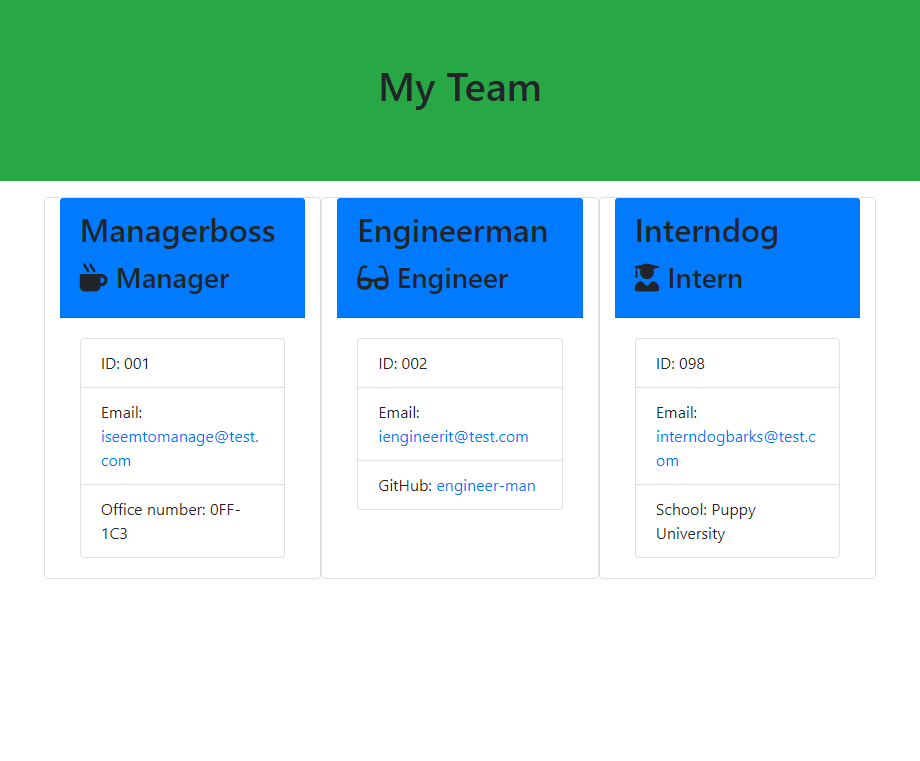
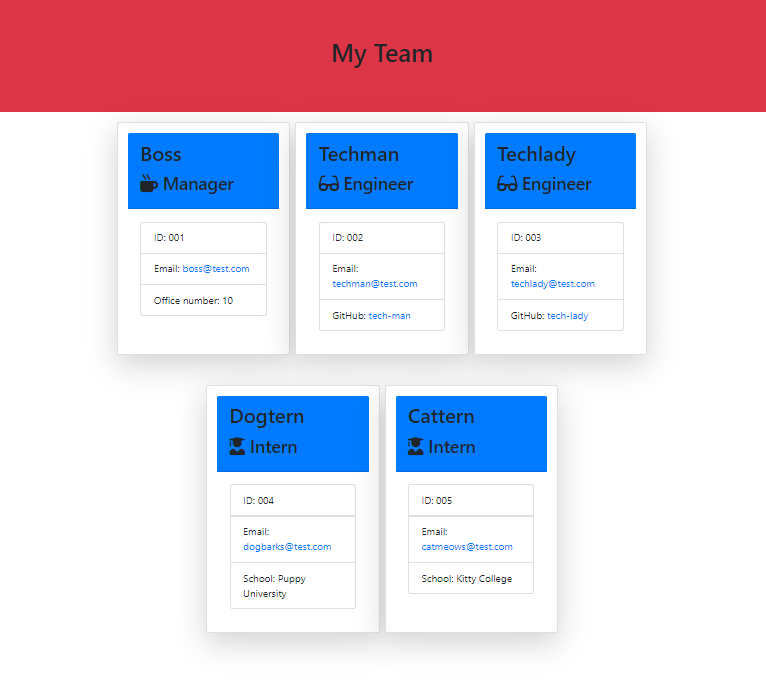
changed README png

diff --git a/output/team.html b/output/team.html
@@ -25,65 +25,65 @@
             <div class="team-area col-12 d-flex justify-content-center flex-wrap">
                 <div class="card employee-card col-xl-3 col-lg-4 col-md-6 mx-1 shadow-lg p-3 mb-5 bg-white rounded"> 
     <div class="card-header bg-primary">
-        <h2 class="card-title">Managerboss</h2>
+        <h2 class="card-title">Boss</h2>
         <h3 class="card-title"><i class="fas fa-mug-hot mr-2"></i>Manager</h3>
     </div>
     <div class="card-body">
         <ul class="list-group">
             <li class="list-group-item">ID: 001</li>
-            <li class="list-group-item">Email: <a href="mailto:iseem2manage@test.com">iseem2manage@test.com</a></li>
-            <li class="list-group-item">Office number: 0FF-1C3</li>
+            <li class="list-group-item">Email: <a href="mailto:boss@test.com">boss@test.com</a></li>
+            <li class="list-group-item">Office number: 10</li>
         </ul>
     </div>
 </div>
 <div class="card employee-card col-xl-3 col-lg-4 col-md-6 mx-1 shadow-lg p-3 mb-5 bg-white rounded">
     <div class="card-header bg-primary">
-        <h2 class="card-title">Engineerman</h2>
+        <h2 class="card-title">Techman</h2>
         <h3 class="card-title"><i class="fas fa-glasses mr-2"></i>Engineer</h3>
     </div>
     <div class="card-body">
         <ul class="list-group">
             <li class="list-group-item">ID: 002</li>
-            <li class="list-group-item">Email: <a href="mailto:iengineerit@test.com">iengineerit@test.com</a></li>
-            <li class="list-group-item">GitHub: <a href="https://github.com/engineer-man" target="_blank" rel="noopener noreferrer">engineer-man</a></li>
+            <li class="list-group-item">Email: <a href="mailto:techman@test.com">techman@test.com</a></li>
+            <li class="list-group-item">GitHub: <a href="https://github.com/tech-man" target="_blank" rel="noopener noreferrer">tech-man</a></li>
         </ul>
     </div>
 </div>
 <div class="card employee-card col-xl-3 col-lg-4 col-md-6 mx-1 shadow-lg p-3 mb-5 bg-white rounded">
     <div class="card-header bg-primary">
-        <h2 class="card-title">Engineerlady</h2>
+        <h2 class="card-title">Techlady</h2>
         <h3 class="card-title"><i class="fas fa-glasses mr-2"></i>Engineer</h3>
     </div>
     <div class="card-body">
         <ul class="list-group">
             <li class="list-group-item">ID: 003</li>
-            <li class="list-group-item">Email: <a href="mailto:iengineeritbetter@test.com">iengineeritbetter@test.com</a></li>
-            <li class="list-group-item">GitHub: <a href="https://github.com/engineer-lady" target="_blank" rel="noopener noreferrer">engineer-lady</a></li>
+            <li class="list-group-item">Email: <a href="mailto:techlady@test.com">techlady@test.com</a></li>
+            <li class="list-group-item">GitHub: <a href="https://github.com/tech-lady" target="_blank" rel="noopener noreferrer">tech-lady</a></li>
         </ul>
     </div>
 </div>
 <div class="card employee-card col-xl-3 col-lg-4 col-md-6 mx-1 shadow-lg p-3 mb-5 bg-white rounded">
     <div class="card-header bg-primary">
-        <h2 class="card-title">Interndog</h2>
+        <h2 class="card-title">Dogtern</h2>
         <h3 class="card-title"><i class="fas fa-user-graduate mr-2"></i>Intern</h3>
     </div>
     <div class="card-body">
         <ul class="list-group">
-            <li class="list-group-item">ID: 098</li>
-            <li class="list-group-item">Email: <a href="mailto:interndogbarks@test.com">interndogbarks@test.com</a></li>
+            <li class="list-group-item">ID: 004</li>
+            <li class="list-group-item">Email: <a href="mailto:dogbarks@test.com">dogbarks@test.com</a></li>
             <li class="list-group-item">School: Puppy University</li>
         </ul>
     </div>
 </div>
 <div class="card employee-card col-xl-3 col-lg-4 col-md-6 mx-1 shadow-lg p-3 mb-5 bg-white rounded">
     <div class="card-header bg-primary">
-        <h2 class="card-title">Interncat</h2>
+        <h2 class="card-title">Cattern</h2>
         <h3 class="card-title"><i class="fas fa-user-graduate mr-2"></i>Intern</h3>
     </div>
     <div class="card-body">
         <ul class="list-group">
-            <li class="list-group-item">ID: 099</li>
-            <li class="list-group-item">Email: <a href="mailto:interncatmeows@test.com">interncatmeows@test.com</a></li>
+            <li class="list-group-item">ID: 005</li>
+            <li class="list-group-item">Email: <a href="mailto:catmeows@test.com">catmeows@test.com</a></li>
             <li class="list-group-item">School: Kitty College</li>
         </ul>
     </div>
